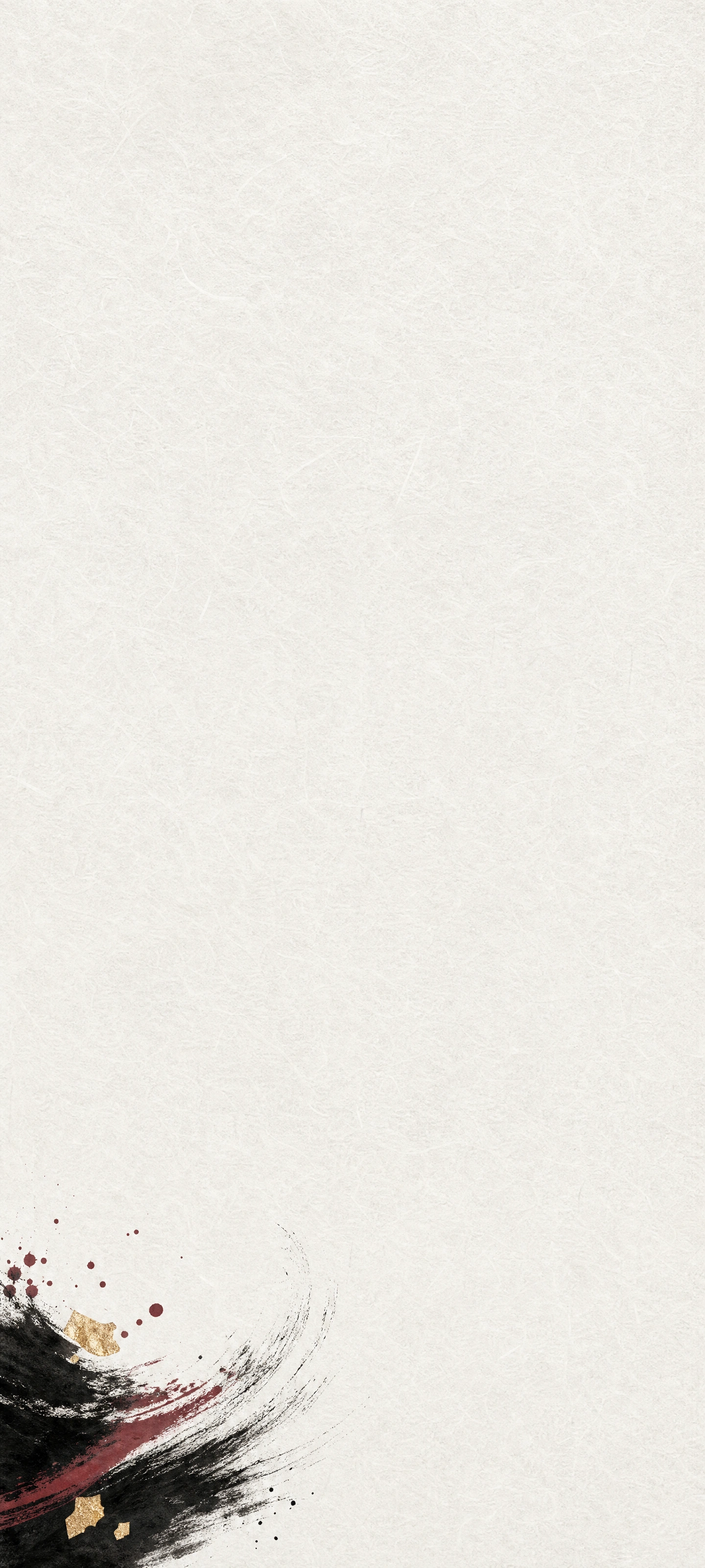
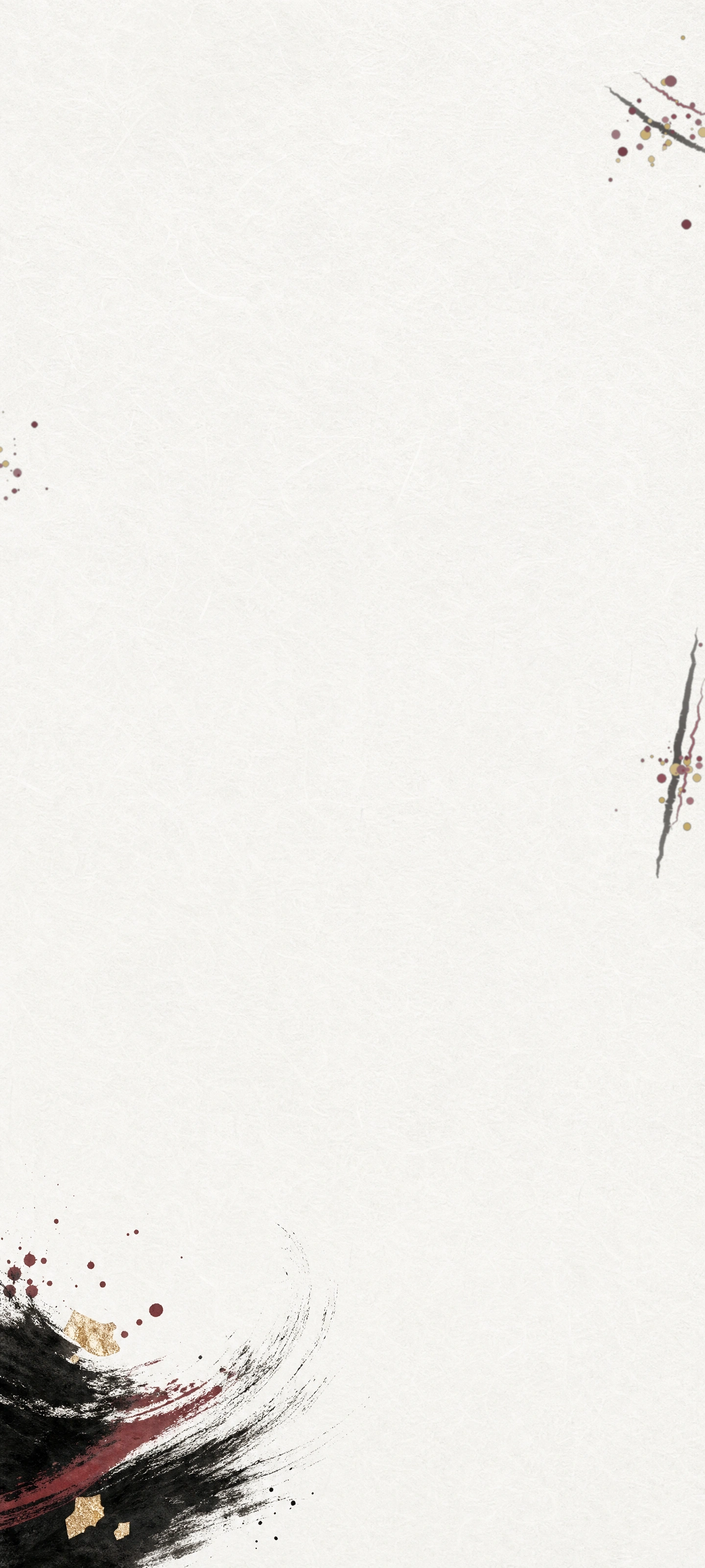
fix(booking): reduce v2 mobile choice titles by 2px and apply mobile wallpapers

diff --git a/src/test/kani-reserva-v2.test.tsx b/src/test/kani-reserva-v2.test.tsx
@@ -220,4 +220,10 @@ describe('isolated four-stage booking presentation', () => {
     expect(css).toMatch(/main\.booking-page\.booking-v2\.booking-v2-final\s*\.booking-contact-form\s*input:-webkit-autofill[^{]*\{[^}]*font-size:\s*12px\s*!important/);
   });
 
+  it('reduces choice titles by 2px in mobile (18px) while desktop preserves 20px', () => {
+    const css = fs.readFileSync('src/components/kani/experimental/reserva-v2.css', 'utf8');
+    expect(css).toMatch(/\.booking-v2\s*\.booking-v2-choice-title\s*\{[^}]*font-size:\s*20px/);
+    expect(css).toMatch(/@media\s*\(max-width:\s*767px\)[\s\S]*?\.booking-v2\s*:is\(\.booking-v2-choice-title,\s*\.barber-choice-inline\s*h2\)\s*\{[^}]*font-size:\s*18px/);
+  });
+
 });

diff --git a/src/components/kani/experimental/reserva-v2.css b/src/components/kani/experimental/reserva-v2.css
@@ -23,6 +23,11 @@
 .booking-v2 .booking-v2-times .booking-time-slot { min-height: 48px; }
 .booking-v2 .booking-progress small { white-space: normal; }
 @media (max-width: 767px) {
+  .booking-v2 :is(.booking-v2-choice-title, .barber-choice-inline h2) {
+    font-size: 18px;
+    line-height: 1.3;
+    margin: 0 0 10px;
+  }
   .booking-page.booking-v2 .booking-progress {
     height: 66px;
   }

diff --git a/docs/RESERVA_V2.md b/docs/RESERVA_V2.md
@@ -39,7 +39,7 @@ En Light, las cápsulas neutrales y los avisos importantes de V2 usan `--kani-su
 
 ## Compactación y ancho consistente
 
-El título principal del contenido es «Elegir una fecha» y el subtítulo delante de las cápsulas es «Elegir un horario»; el grupo conserva el nombre accesible «Horarios disponibles». El stepper mantiene Fecha/Hora y no se separa el paso funcional. «¿Quién te va a atender?» reutiliza exactamente la tipografía anterior de ese título: 20 px, peso 400, interlineado 26 px y márgenes 0/0/14 px. Se elimina el borde superior y padding del bloque de barberos. Los barberos diferidos neutrales Light usan el token crítico al 80%, con tinte de hover y estados seleccionados preservados; Dark conserva sus superficies.
+El título principal del contenido es «Elegir una fecha» (conservado a 22 px en mobile y 28 px en desktop) y el subtítulo delante de las cápsulas es «Elegir un horario»; el grupo conserva el nombre accesible «Horarios disponibles». El stepper mantiene Fecha/Hora y no se separa el paso funcional. «¿Quién te va a atender?» y «Elegir un horario» comparten exactamente la misma tipografía: 20 px en desktop y 18 px en mobile (-2 px), peso 400, interlineado 1.3 y margen inferior compactado a 10 px (antes 14 px) sin altura residual. Se elimina el borde superior y padding del bloque de barberos. Los barberos diferidos neutrales Light usan el token crítico al 80%, con tinte de hover y estados seleccionados preservados; Dark conserva sus superficies.
 
 El calendario comparte una variable de 2 px para padding superior y separación entre encabezado y grilla, centrando el caption entre el borde interior y la fila de días. El mes y la navegación comparten una fila centrada, con targets de 44 × 44 px. Se conserva el tamaño de texto y de las fechas. Frente a la versión anterior, la card del calendario recupera 6 px en mobile y 8 px en desktop; esto mide la compactación del calendario, no el nuevo subtítulo de horarios.
 
